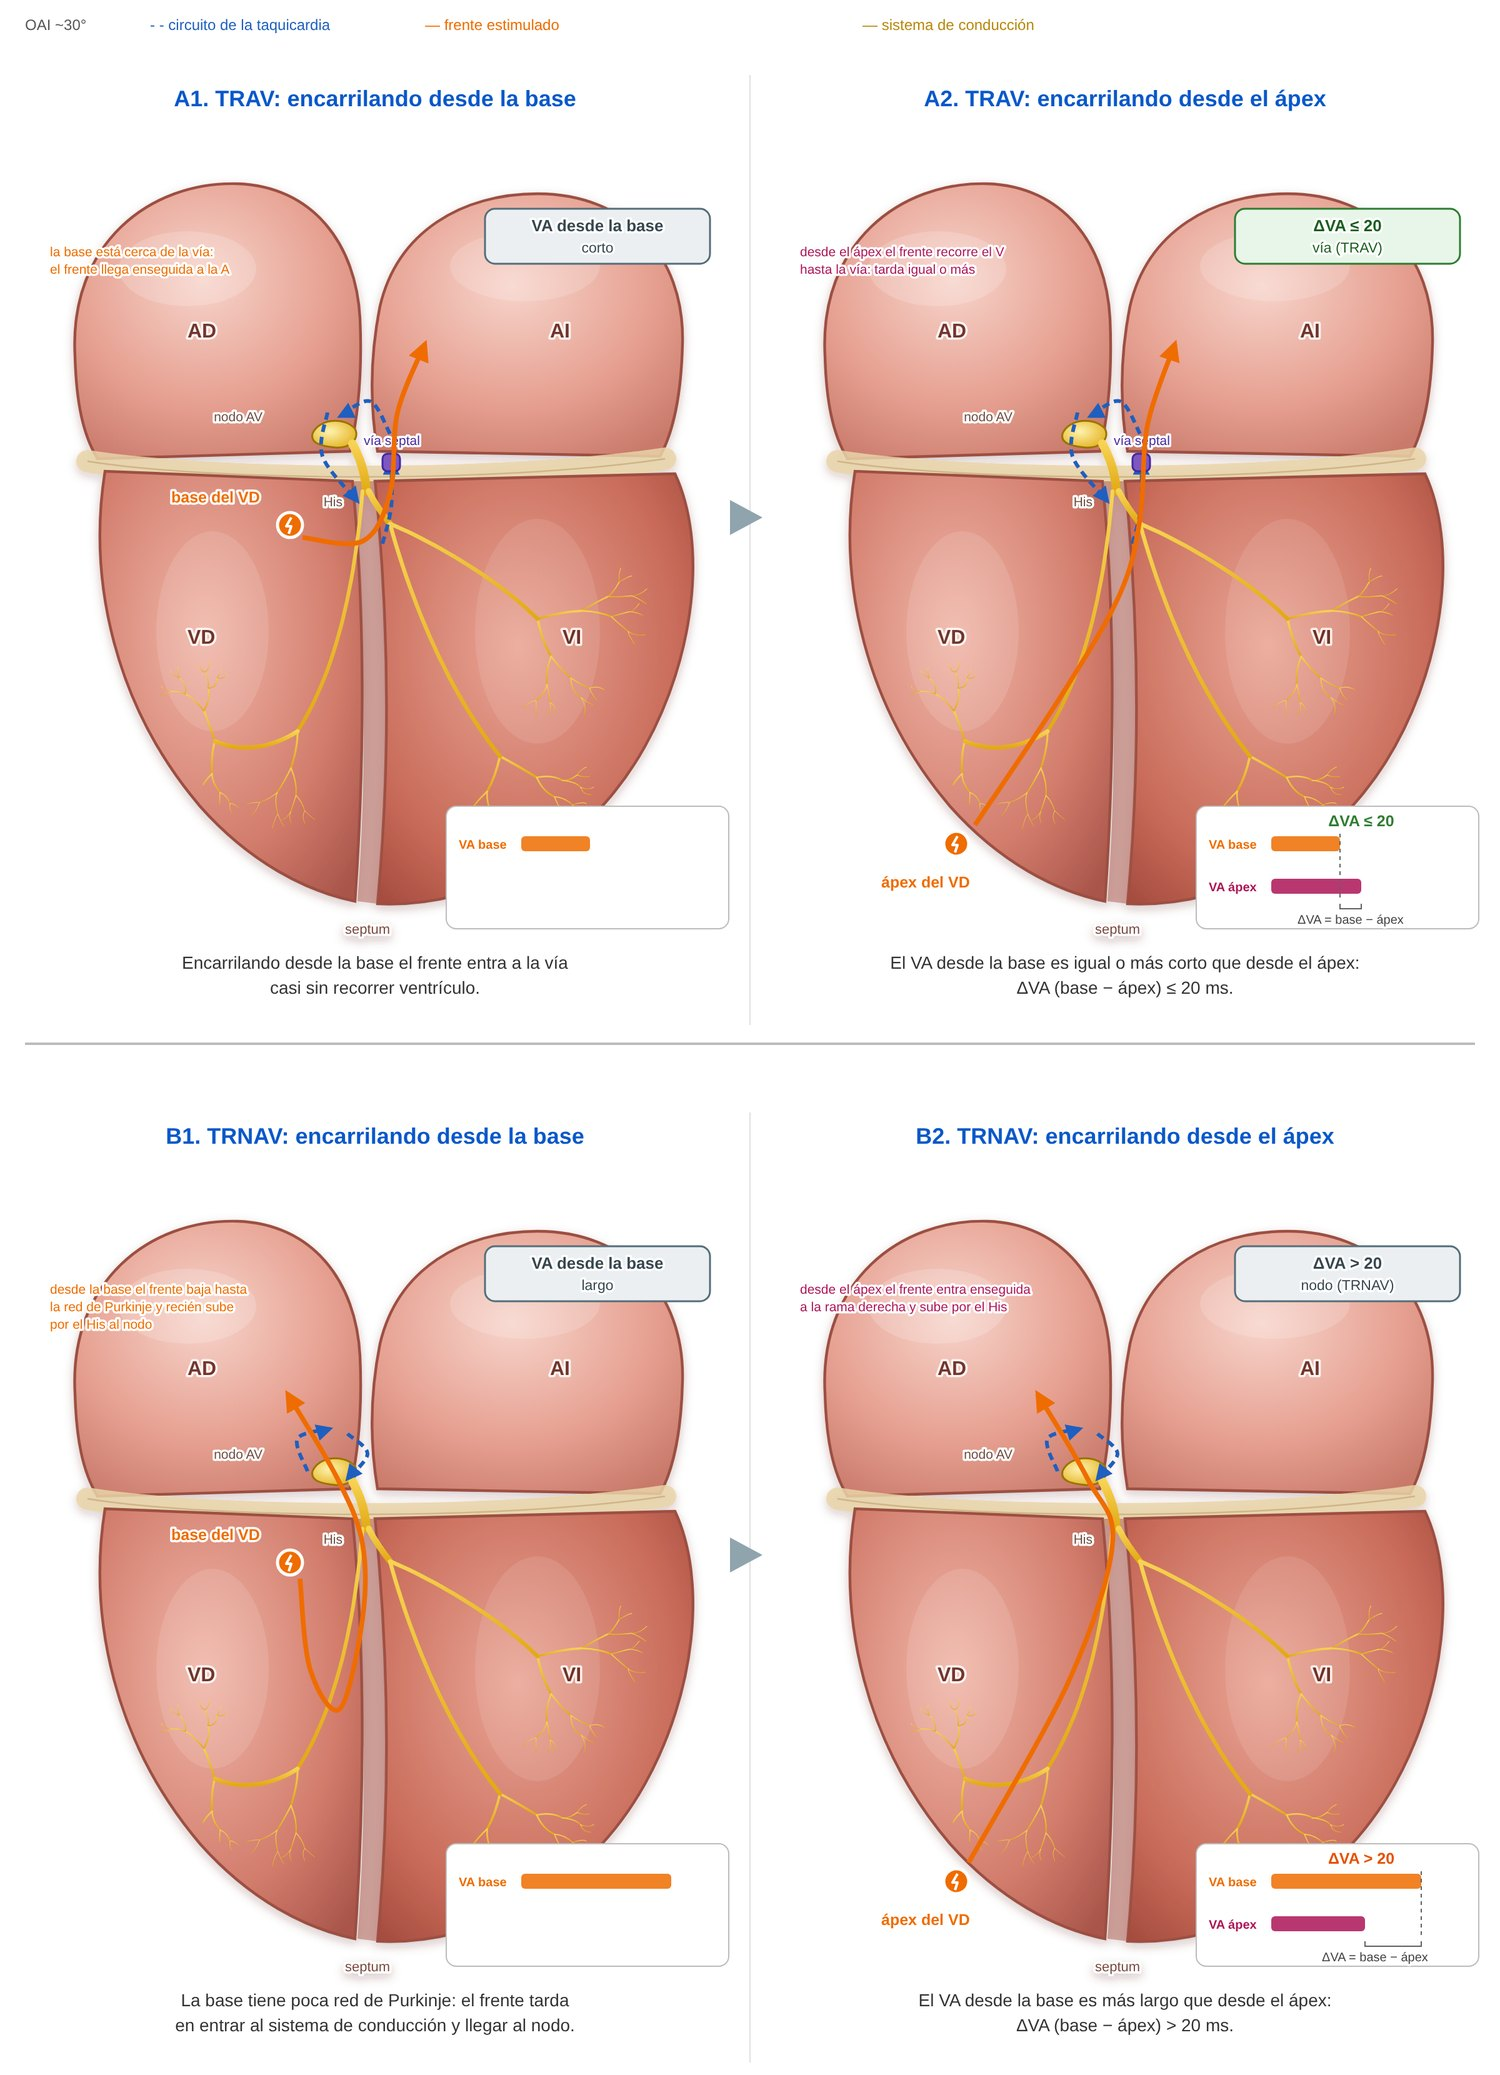
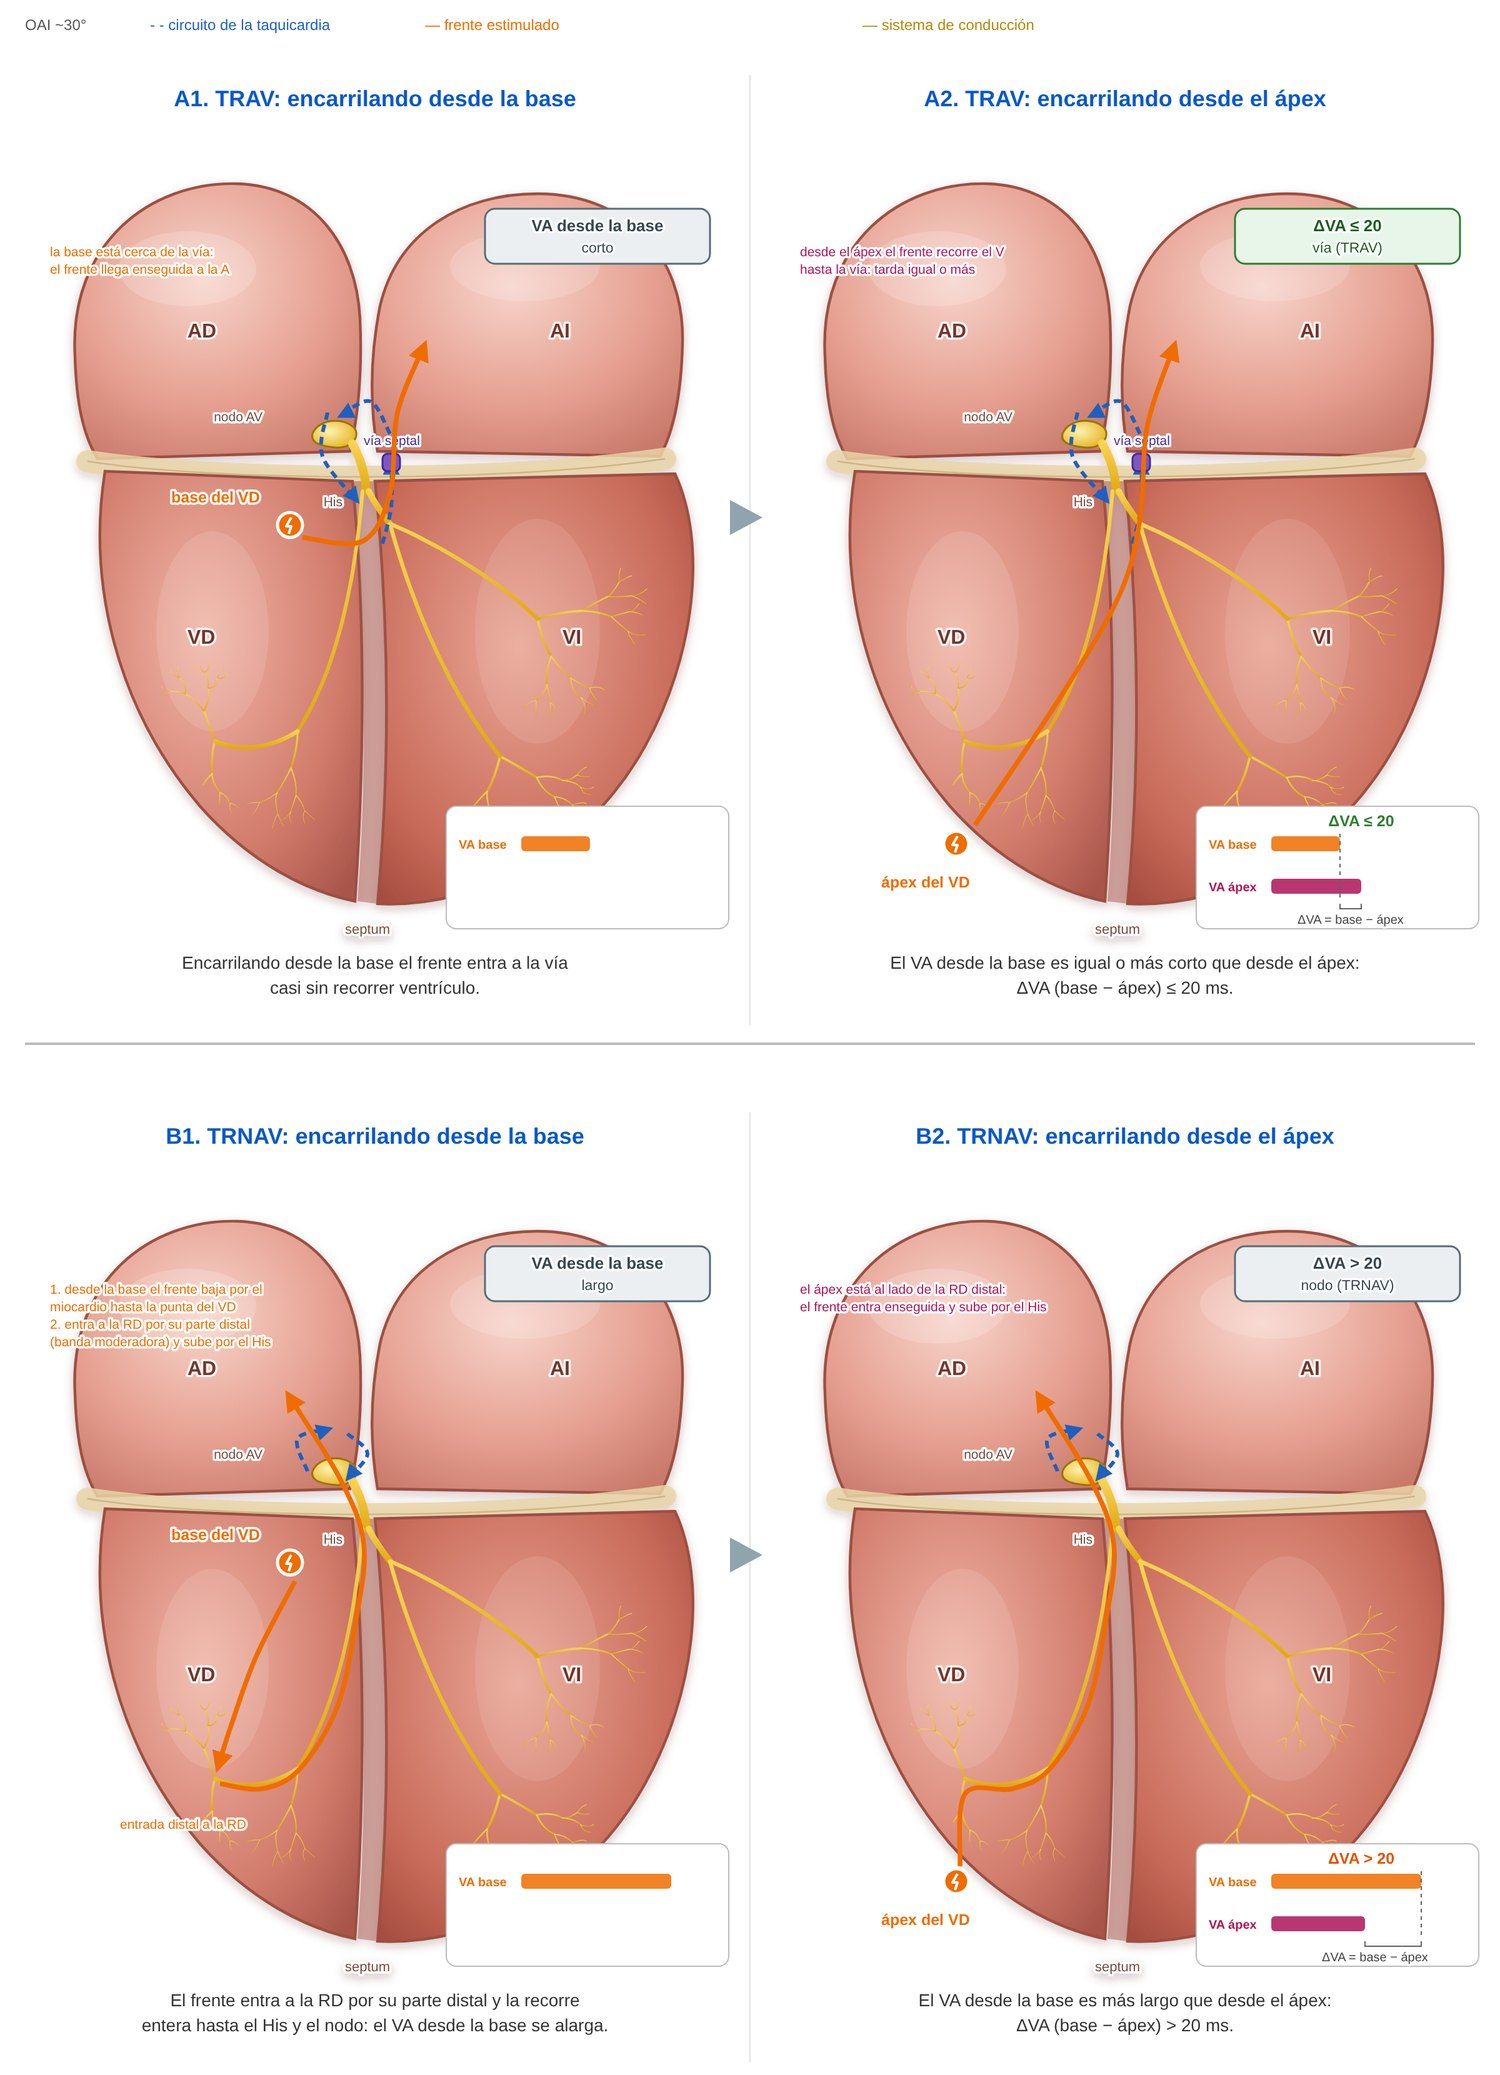
Encarrilamiento diferencial: desde la base el frente entra a la RD por su parte distal
Claude-Session: https://claude.ai/code/session_01Pw5rjt62KK5LeJZoEyFiaM

diff --git a/sw.js b/sw.js
@@ -1,6 +1,6 @@
 // Permite instalar la app y abrirla sin conexión. Primero la red (siempre lo último publicado); si no hay, la copia.
 // Si cambiás un archivo, subí CACHE_VERSION.
-const CACHE_VERSION = 'mef-v113';
+const CACHE_VERSION = 'mef-v114';
 const ARCHIVOS = ['./', './index.html', './manifest.json', './iconos/icon-192.png', './iconos/icon-512.png'];
 self.addEventListener('install', e => e.waitUntil(caches.open(CACHE_VERSION).then(c => c.addAll(ARCHIVOS)).then(() => self.skipWaiting())));
 self.addEventListener('activate', e => e.waitUntil(caches.keys().then(ks => Promise.all(ks.filter(k => k !== CACHE_VERSION).map(k => caches.delete(k)))).then(() => self.clients.claim())));

diff --git a/herramientas/esquemas/esquemas.py b/herramientas/esquemas/esquemas.py
@@ -440,14 +440,16 @@ F['diff'] = {'grid': ([[
      + box('ΔVA ≤ 20', 'vía (TRAV)'),
      'El VA desde la base es igual o más corto que desde el ápex:|ΔVA (base − ápex) ≤ 20 ms.')],
     [('B1. TRNAV: encarrilando desde la base', TRNAV + spark(BASE_VD, 'base del VD', -95, -18)
-     + front((240, 348), (248, 420), (272, 452), (290, 380), (290, 320), (270, 268), (230, 200))
-     + note(40, 120, 'desde la base el frente baja hasta|la red de Purkinje y recién sube|por el His al nodo', ORANGE)
+     + front((236, 350), (205, 410), (185, 465), (174, 500))
+     + front((176, 512), (210, 516), (240, 500), (270, 450), (285, 380), (291, 320), (272, 268), (230, 200))
+     + note(40, 120, '1. desde la base el frente baja por el|miocardio hasta la punta del VD|2. entra a la RD por su parte distal|(banda moderadora) y sube por el His', ORANGE)
+     + note(96, 548, 'entrada distal a la RD', ORANGE)
      + intbar(395, 590, [('VA base', ORANGE, 120, 0)], True, '')
      + box('VA desde la base', 'largo', False),
-     'La base tiene poca red de Purkinje: el frente tarda|en entrar al sistema de conducción y llegar al nodo.'),
+     'El frente entra a la RD por su parte distal y la recorre|entera hasta el His y el nodo: el VA desde la base se alarga.'),
     ('B2. TRNAV: encarrilando desde el ápex', TRNAV + spark(APEX, 'ápex del VD', -60, 35)
-     + front((175, 575), (255, 430), (290, 320), (270, 268), (230, 200))
-     + note(40, 120, 'desde el ápex el frente entra enseguida|a la rama derecha y sube por el His', '#ad1457')
+     + front((168, 578), (172, 520), (210, 516), (240, 500), (270, 450), (285, 380), (291, 320), (272, 268), (230, 200))
+     + note(40, 120, 'el ápex está al lado de la RD distal:|el frente entra enseguida y sube por el His', '#ad1457')
      + intbar(395, 590, [('VA base', ORANGE, 120, 0), ('VA ápex', '#ad1457', 75, 0)], False, 'ΔVA > 20', 'ΔVA = base − ápex')
      + box('ΔVA > 20', 'nodo (TRNAV)', False),
      'El VA desde la base es más largo que desde el ápex:|ΔVA (base − ápex) > 20 ms.')]], LEG)}
